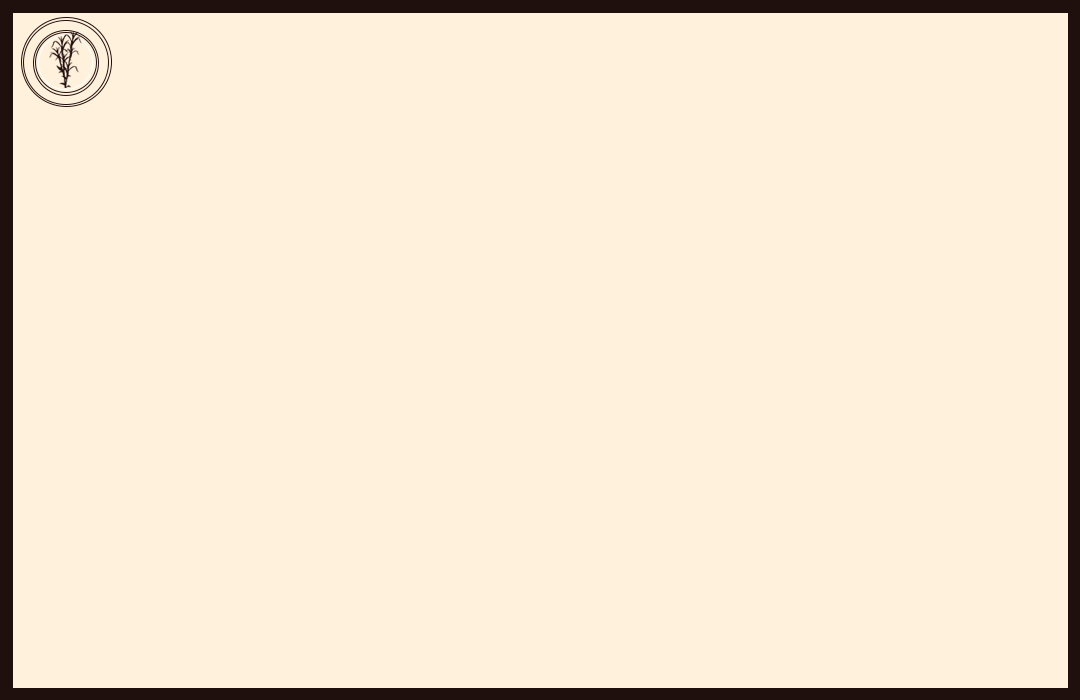
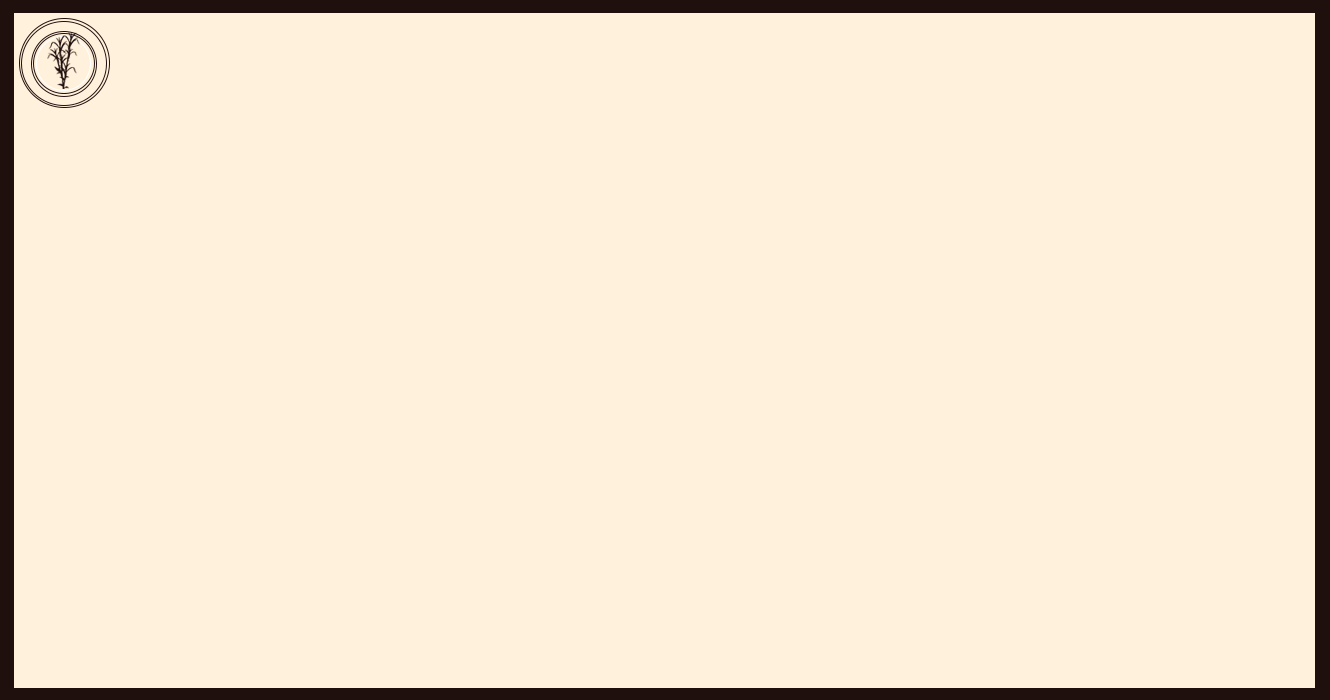
Update (View Formulario And Liquidacion)

Changed region(s): [[0.0, 0.03, 0.1222, 0.15]]

diff --git a/src/co/edu/univalle/miniproyecto4/views/ViewLiquidacion.java b/src/co/edu/univalle/miniproyecto4/views/ViewLiquidacion.java
@@ -50,20 +50,37 @@ public class ViewLiquidacion extends JFrame {
     private JScrollPane jpTabla = new JScrollPane();
     private JTable tablaDatos = new JTable();
 
-    private Decolib im1, im2, im3, ic1;
+    private Decolib im1, im2, im3, ic1, imf1, imf2;
+
+    /* Para tablas de devengo y deducciones */
+    private JPanel panelDevFondo, panelDecFondo;
+    private JLabel devTittle, decTittle;
+    private String[] devengos = {"Seleccionar"};
+    private JComboBox<String> dropDevengos = new JComboBox<>(devengos);
+    private String[] deducciones = {"Seleccionar"};
+    private JComboBox<String> dropDeducciones = new JComboBox<>(devengos);
     
+    // Tabla devengo
+    private JPanel panelTablaDev = new JPanel();
+    private JScrollPane jpTablaDev = new JScrollPane();
+    private JTable tablaDevengos = new JTable();
+    
+    // Tabla deduccion
+    private JPanel panelTablaDed = new JPanel();
+    private JScrollPane jpTablaDed = new JScrollPane();
+    private JTable tablaDeducciones = new JTable();
 
     public ViewLiquidacion(){
         inciarComponentes();
         im1 = new Decolib("/co/edu/univalle/miniproyecto4/img/vistaLiquidacion/fondo.png");
-        im1.setBounds(0,0,1080, 700);
+        im1.setBounds(0,0,1330, 700);  
         add(im1);
     }
 
     private void inciarComponentes() {
         setTitle("Ingenio de caña (Ventana Liquidacion)");
         setDefaultCloseOperation(JFrame.EXIT_ON_CLOSE);
-        setSize(1094, 735);
+        setSize(1344, 735);
         setLocationRelativeTo(null);
         setVisible(true);
         setResizable(false);
@@ -253,6 +270,22 @@ public class ViewLiquidacion extends JFrame {
         panelTabla.add(panelconTabla);
         panelconTabla.add(jpTabla);
 
+        tablaDatos.setModel(new javax.swing.table.DefaultTableModel(
+            new Object [][] {
+                {null, null, null, null},
+                {null, null, null, null},
+                {null, null, null, null},
+                {null, null, null, null}
+            },
+            new String [] {
+                "Title 1", "Title 2", "Title 3", "Title 4"
+            }
+        ));
+        tablaDatos.setSelectionMode(javax.swing.ListSelectionModel.SINGLE_SELECTION);
+        tablaDatos.setBackground(colorFondoWhite);
+        jpTabla.setBounds(0,0,378,248);
+        jpTabla.setViewportView(tablaDatos); 
+
         im2 = new Decolib("/co/edu/univalle/miniproyecto4/img/vistaLiquidacion/fondotabla.png");
         im2.setBounds(0,0,399,305);
         panelTabla.add(im2);
@@ -274,6 +307,102 @@ public class ViewLiquidacion extends JFrame {
         im3.setBounds(0,0,561,305);
         panelTxtarea.add(im3);
 
+        /*-------------------- Nuevo apartado --------------------------- */
+
+        devTittle = new JLabel("Devengos");
+        devTittle.setBounds(1073,21,206,29);
+        devTittle.setFont(nuevaTipografia);
+        devTittle.setForeground(colorFuente);
+        devTittle.setHorizontalAlignment(JLabel.CENTER);
+
+        dropDevengos.setBounds(1073,308,206,29);
+        dropDevengos.setOpaque(true);
+        dropDevengos.setFont(nuevaTipografia);
+        dropDevengos.setForeground(colorFuente);
+        dropDevengos.setBackground(colorFondoWhite);
+
+        add(devTittle);
+        add(dropDevengos);
+
+        panelDevFondo = new JPanel();
+        panelDevFondo.setBounds(1052,61,247,234);
+        panelDevFondo.setBackground(colorFondoWhite);
+        panelDevFondo.setLayout(null);
+        add(panelDevFondo);
+
+        panelTablaDev.setBounds(7,7,233,220);
+        panelTablaDev.setLayout(null);
+        panelTablaDev.setBackground(colorFondoWhite);
+        panelDevFondo.add(panelTablaDev);
+        panelTablaDev.add(jpTablaDev);
+
+        tablaDevengos.setModel(new javax.swing.table.DefaultTableModel(
+            new Object [][] {
+                {null, null, null, null},
+                {null, null, null, null},
+                {null, null, null, null},
+                {null, null, null, null}
+            },
+            new String [] {
+                "Title 1", "Title 2"
+            }
+        ));
+
+        tablaDevengos.setSelectionMode(javax.swing.ListSelectionModel.SINGLE_SELECTION);
+        tablaDevengos.setBackground(colorFondoWhite);
+        jpTablaDev.setBounds(0,0,233,220);
+        jpTablaDev.setViewportView(tablaDevengos);
+
+        imf1 = new Decolib("/co/edu/univalle/miniproyecto4/img/vistaLiquidacion/fondotablita.png");
+        imf1.setBounds(0,0,247,234);
+        panelDevFondo.add(imf1);
+
+        decTittle = new JLabel("Deducciones");
+        decTittle.setBounds(1074,352,206,29);
+        decTittle.setFont(nuevaTipografia);
+        decTittle.setForeground(colorFuente);
+        decTittle.setHorizontalAlignment(JLabel.CENTER);
+
+        dropDeducciones.setBounds(1074,637,206,29);
+        dropDeducciones.setOpaque(true);
+        dropDeducciones.setFont(nuevaTipografia);
+        dropDeducciones.setForeground(colorFuente);
+        dropDeducciones.setBackground(colorFondoWhite);
+
+        add(decTittle);
+        add(dropDeducciones);
+
+        panelDecFondo = new JPanel();
+        panelDecFondo.setBounds(1052,390,247,234);
+        panelDecFondo.setBackground(colorFondoWhite);
+        panelDecFondo.setLayout(null);
+        add(panelDecFondo);
+
+        panelTablaDed.setBounds(7,7,233,220);
+        panelTablaDed.setLayout(null);
+        panelTablaDed.setBackground(colorFondoWhite);
+        panelDecFondo.add(panelTablaDed);
+        panelTablaDed.add(jpTablaDed);
+
+        tablaDeducciones.setModel(new javax.swing.table.DefaultTableModel(
+            new Object [][] {
+                {null, null, null, null},
+                {null, null, null, null},
+                {null, null, null, null},
+                {null, null, null, null}
+            },
+            new String [] {
+                "Title 1", "Title 2"
+            }
+        ));
+        tablaDeducciones.setSelectionMode(javax.swing.ListSelectionModel.SINGLE_SELECTION);
+        tablaDeducciones.setBackground(colorFondoWhite);
+        jpTablaDed.setBounds(0,0,233,220);
+        jpTablaDed.setViewportView(tablaDeducciones);
+
+        imf2 = new Decolib("/co/edu/univalle/miniproyecto4/img/vistaLiquidacion/fondotablita.png");
+        imf2.setBounds(0,0,247,234);
+        panelDecFondo.add(imf2);
         
     }
 
@@ -332,5 +461,60 @@ public class ViewLiquidacion extends JFrame {
     public void setTablaDatos(JTable tablaDatos) {
         this.tablaDatos = tablaDatos;
     }
+
+    public JPanel getPanelconTabla() {
+        return panelconTabla;
+    }
     
+     /* --------------- Para las Tablas  DEVENGOS (Getters and Setters) ------------------- */
+
+    public JComboBox<String> getDropDevengos() {
+        return dropDevengos;
+    }
+
+    public void setDropDevengos(JComboBox<String> dropDevengos) {
+        this.dropDevengos = dropDevengos;
+    }
+
+    public JPanel getPanelTablaDev() {
+        return panelTablaDev;
+    }
+
+    public JScrollPane getJpTablaDev() {
+        return jpTablaDev;
+    }
+
+    public JTable getTablaDevengos() {
+        return tablaDevengos;
+    }
+
+    public void setTablaDevengos(JTable tablaDevengos) {
+        this.tablaDevengos = tablaDevengos;
+    }
+
+      /* --------------- Para las Tablas DEDUCCCIONES (Getters and Setters) ------------------- */
+    
+    public JComboBox<String> getDropDeducciones() {
+        return dropDeducciones;
+    }
+
+    public void setDropDeducciones(JComboBox<String> dropDeducciones) {
+        this.dropDeducciones = dropDeducciones;
+    }
+
+    public JPanel getPanelTablaDed() {
+        return panelTablaDed;
+    }
+
+    public JScrollPane getJpTablaDed() {
+        return jpTablaDed;
+    }
+
+    public JTable getTablaDeducciones() {
+        return tablaDeducciones;
+    }
+
+    public void setTablaDeducciones(JTable tablaDeducciones) {
+        this.tablaDeducciones = tablaDeducciones;
+    }
 }

diff --git a/src/co/edu/univalle/miniproyecto4/views/ViewFormulario.java b/src/co/edu/univalle/miniproyecto4/views/ViewFormulario.java
@@ -88,16 +88,16 @@ public class ViewFormulario extends JFrame implements ActionListener{
 
     // -------------- PARA EL OBJETO DEVENOG ---------------- //
 
-    private JLabel lblcodigoDev, lblnombreDeven, lblhacebaseDev;
-    private JTextField fildDevengoCodigo, fildDevengonombre;
+    private JLabel lblcodigoDev, lblnombreDeven, lblhacebaseDev, lblAdicional1Dev, lblAdiconal2Dev;
+    private JTextField fildDevengoCodigo, fildDevengonombre, fildDevengoAdcion1, fildDevengoAdcion2;
     private String[] hacenbase = {"Seleccionar", "Si hace base","No hace base"};
     private JComboBox<String> dropbaseDevengo = new JComboBox<>(hacenbase);
     private Decolib fondoDevengo;
 
     // -------------- PARA EL OBJETO DEDUCCION ---------------- //
 
-    private JLabel lblcodigoDed, lblnombreDed;
-    private JTextField fildDeduccionCodigo, fildDeduccionNombre;
+    private JLabel lblcodigoDed, lblnombreDed, lblAdd1, lblAdd2;
+    private JTextField fildDeduccionCodigo, fildDeduccionNombre, fildDeduccionAdcion1, fildDeduccionAdcion2;
     
     // ------------- ELEMENTOS PARA LAS TABLAS ----------------//
     private JPanel jpfondotabla;
@@ -811,6 +811,16 @@ public class ViewFormulario extends JFrame implements ActionListener{
         lblhacebaseDev.setFont(nuevaTipografia2);
         lblhacebaseDev.setForeground(colorFuente);
 
+        lblAdicional1Dev = new JLabel("Adicional1");
+        lblAdicional1Dev.setBounds(14,124,139,30);
+        lblAdicional1Dev.setFont(nuevaTipografia2);
+        lblAdicional1Dev.setForeground(colorFuente);
+        
+        lblAdiconal2Dev = new JLabel("Adicional2");
+        lblAdiconal2Dev.setBounds(14,161,139,30);
+        lblAdiconal2Dev.setFont(nuevaTipografia2);
+        lblAdiconal2Dev.setForeground(colorFuente);
+
         fildDevengoCodigo = new JTextField();
         fildDevengoCodigo.setBounds(167,15,203,30);
         fildDevengoCodigo.setFont(nuevaTipografia2);
@@ -829,12 +839,30 @@ public class ViewFormulario extends JFrame implements ActionListener{
         dropbaseDevengo.setForeground(colorFuente);
         dropbaseDevengo.setBackground(colorFondoWhite);
 
+        fildDevengoAdcion1 = new JTextField();
+        fildDevengoAdcion1.setBounds(167,124,203,30);
+        fildDevengoAdcion1.setOpaque(true);
+        fildDevengoAdcion1.setFont(nuevaTipografia2);
+        fildDevengoAdcion1.setForeground(colorFuente);
+        fildDevengoAdcion1.setBackground(colorFondoWhite);
+
+        fildDevengoAdcion2 = new JTextField();
+        fildDevengoAdcion2.setBounds(167,161,203,30);
+        fildDevengoAdcion2.setOpaque(true);
+        fildDevengoAdcion2.setFont(nuevaTipografia2);
+        fildDevengoAdcion2.setForeground(colorFuente);
+        fildDevengoAdcion2.setBackground(colorFondoWhite);
+
         jpDev.add(lblcodigoDev);
         jpDev.add(lblnombreDeven);
         jpDev.add(lblhacebaseDev);
+        jpDev.add(lblAdicional1Dev);
+        jpDev.add(lblAdiconal2Dev);
         jpDev.add(fildDevengoCodigo);
         jpDev.add(fildDevengonombre);
         jpDev.add(dropbaseDevengo);
+        jpDev.add(fildDevengoAdcion1);
+        jpDev.add(fildDevengoAdcion2);
 
         fondoDevengo = new Decolib("/co/edu/univalle/miniproyecto4/img/vistaFormulario/formulario/fondocomple.png");
         fondoDevengo.setBounds(0,0,758,246);
@@ -857,6 +885,16 @@ public class ViewFormulario extends JFrame implements ActionListener{
         lblnombreDed.setFont(nuevaTipografia2);
         lblnombreDed.setForeground(colorFuente);
 
+        lblAdd1 = new JLabel("Adicional 1");
+        lblAdd1.setBounds(14,87,139,30);
+        lblAdd1.setFont(nuevaTipografia2);
+        lblAdd1.setForeground(colorFuente);
+
+        lblAdd2 = new JLabel("Adicional 2");
+        lblAdd2.setBounds(14,124,139,30);
+        lblAdd2.setFont(nuevaTipografia2);
+        lblAdd2.setForeground(colorFuente);
+
         fildDeduccionCodigo = new JTextField();
         fildDeduccionCodigo.setBounds(167,15,203,30);
         fildDeduccionCodigo.setFont(nuevaTipografia2);
@@ -869,10 +907,26 @@ public class ViewFormulario extends JFrame implements ActionListener{
         fildDeduccionNombre.setForeground(colorFuente);
         fildDeduccionNombre.setBackground(colorFondoWhite);
 
+        fildDeduccionAdcion1 = new JTextField();
+        fildDeduccionAdcion1.setBounds(167,87,203,30);
+        fildDeduccionAdcion1.setFont(nuevaTipografia2);
+        fildDeduccionAdcion1.setForeground(colorFuente);
+        fildDeduccionAdcion1.setBackground(colorFondoWhite);
+
+        fildDeduccionAdcion2 = new JTextField();
+        fildDeduccionAdcion2.setBounds(167,124,203,30);
+        fildDeduccionAdcion2.setFont(nuevaTipografia2);
+        fildDeduccionAdcion2.setForeground(colorFuente);
+        fildDeduccionAdcion2.setBackground(colorFondoWhite);
+
         jpDed.add(lblnombreDed);
         jpDed.add(lblcodigoDed);
+        jpDed.add(lblAdd1);
+        jpDed.add(lblAdd2);
         jpDed.add(fildDeduccionCodigo);
         jpDed.add(fildDeduccionNombre);
+        jpDed.add(fildDeduccionAdcion1);
+        jpDed.add(fildDeduccionAdcion2);
 
         fondoDed = new Decolib("/co/edu/univalle/miniproyecto4/img/vistaFormulario/formulario/fondocomple.png");
         fondoDed.setBounds(0,0,758,246);
